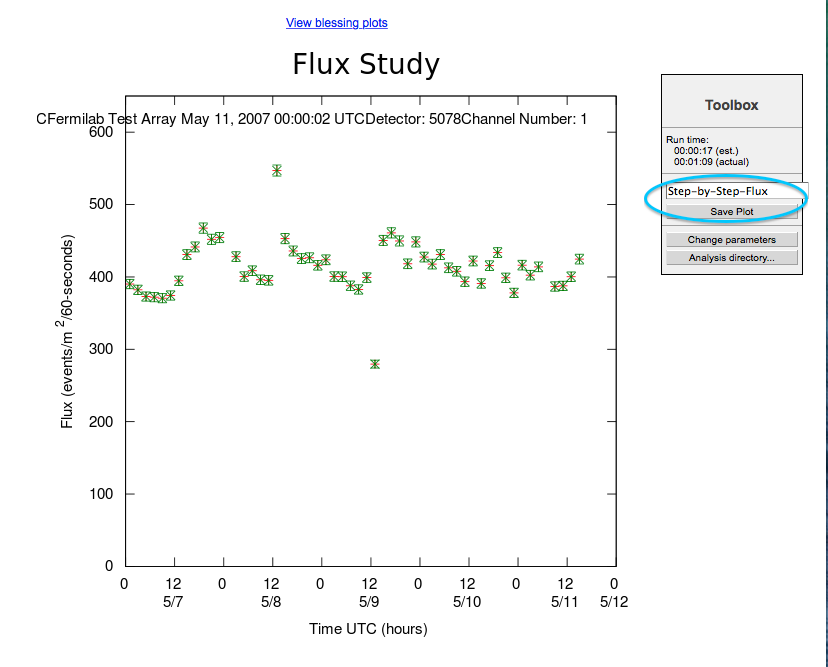
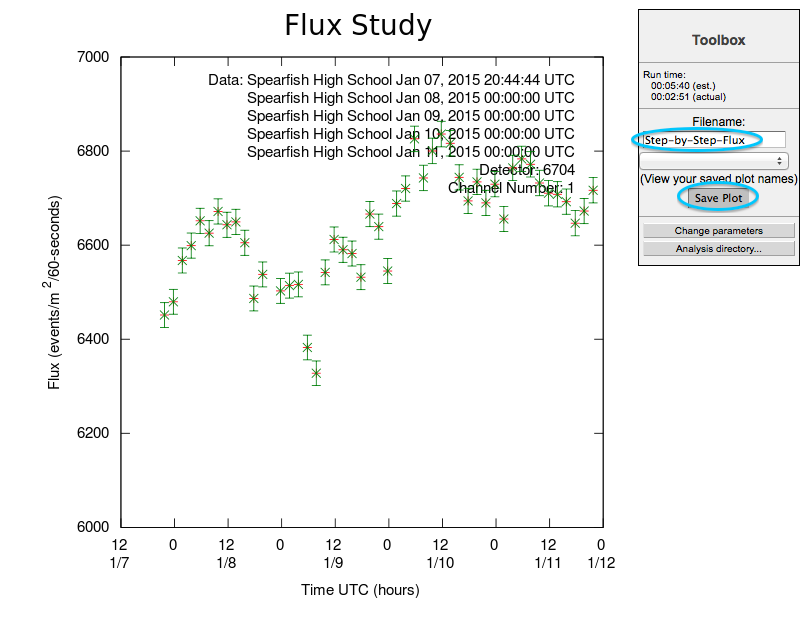
Fixing Flux Step by Step

Changed region(s): [[0.0309, 0.0, 1.0, 1.0], [0.3713, 0.549, 0.4022, 0.61], [0.4332, 0.5185, 0.4641, 0.549]]

diff --git a/cosmic/src/jsp/analysis-flux/tryit.html b/cosmic/src/jsp/analysis-flux/tryit.html
@@ -100,9 +100,8 @@ We will run the analysis on our local computer. See Execution Mode below.
 
 
 <tr><td colspan="2" height="16"><A Name="plot_controls2"> </A></td></tr>
-<tr><td valign="top">Step 8:</td><td>Try varying some of the plot controls.<BR>a) Enter <b>650</b> as Y-max<BR>
-b) Try executing on the I2U2 Cluster instead of on the local server and see if take more or less time.<br>
-c) Click <b>Analyze</b>.</td></tr>
+<tr><td valign="top">Step 8:</td><td>Try varying some of the plot controls.<br>a) Enter <b>6000</b> as Y-min and <b>7000</b> as Y-max.<br>
+b) Click <b>Analyze</b>.</td></tr>
 <tr><td colspan="2"><IMG border="1" src="../graphics/tryPerf/choose_parameters2_flux.png"></td></tr>
 
 
